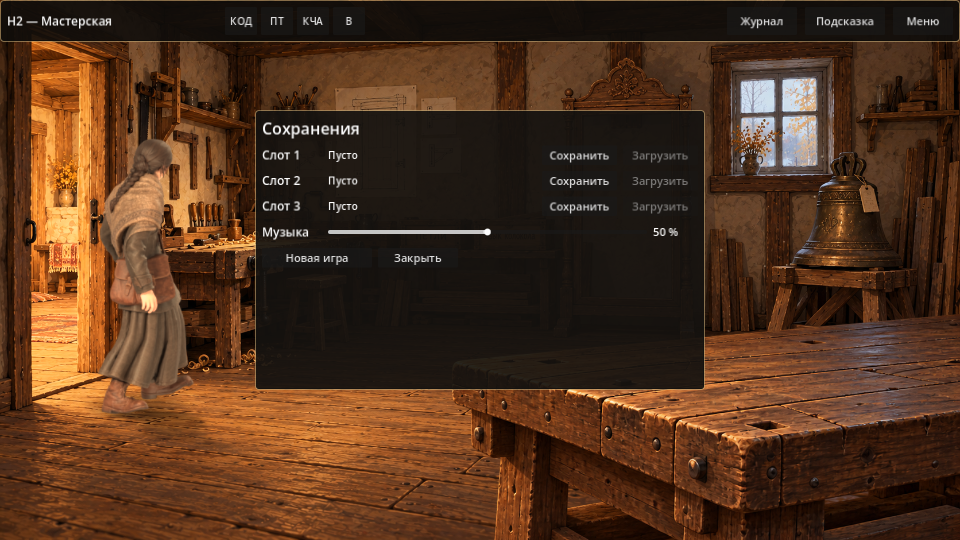
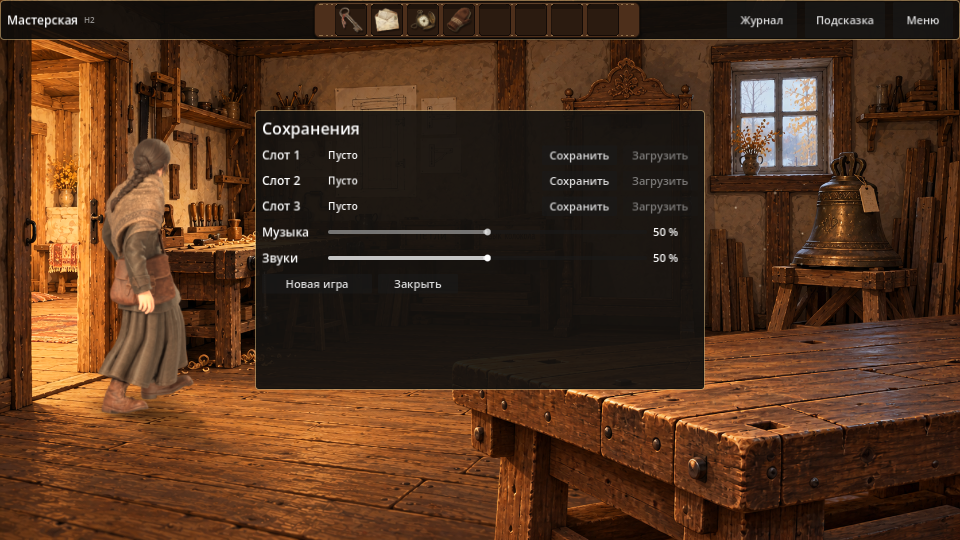
Звуки: шаги на кадрах постановки ноги, двери, дождь, огонь в печи, сумка, ползунок «Звуки» — SfxDirector + data/story/sfx.json
Исходники ElevenLabs (assets/sfx_src) → tools/prepare_sfx.sh → game/assets/sfx (скрипт в tools/: pipeline/ и assets/
по CLAUDE.md — Codex): двери целиком, шаги нарезаны по атакам (гравий 8, мягкие 7, громкость выровнена к медиане),
сумка (шорох + 3 жеста), петли дождя (−28 LUFS) и огня с бесшовной равномощной склейкой, OGG loop=true; levels.json.
Огонь: в «quiet old library» под гулом комнаты есть тихий треск (широкополосные щелчки ≈7,7/с) — гул срезан.
SfxDirector: шаг на contact_frames листа (те же кадры и точка, что у AmbientFootfall), покрытие по комнате и
многоугольникам; дверь — один раз на переход, не при загрузке/новой игре; огонь при stove_lit, громче ближе, панорама
от Агаты; дождь снаружи Z2/Z3/Z4/R1, в доме и на почте −9 dB через ФНЧ 900 Гц (шина SFX_Inside), в школе нет;
сумка — bag_sound_requested; «Звуки» → шина SFX, user://settings.cfg. Проверки: validate_sfx.py (громкость против
музыки, самопроверка), test_sfx.gd 7/7, run_tests.sh код 0, music_web.mjs в веб-сборке 32/32, 0 ошибок консоли.
Код, данные, ассеты и документы попали в промежуточные коммиты агентов [skip ci]; этот коммит запускает сборку.

Claude-Session: https://claude.ai/code/session_01Qvdjz1zmfr41cRSvLxvjeK

diff --git a/tools/prepare_sfx.py b/tools/prepare_sfx.py
@@ -227,9 +227,7 @@ def write_ogg(name: str, x: np.ndarray) -> Path:
 
 def main() -> int:
     DST.mkdir(parents=True, exist_ok=True)
-    for old in list(DST.glob("sfx_*.wav")) + list(DST.glob("amb_*.ogg")):
-        old.unlink()
-        Path(str(old) + ".import").unlink(missing_ok=True) if old.suffix == ".wav" else None
+    previous = set(DST.glob("sfx_*.wav")) | set(DST.glob("amb_*.ogg"))
     made: list[Path] = []
     for name in ("sfx_door_passage", "sfx_door_variant_01", "sfx_door_variant_02"):
         x = trim_silence(highpass(read(name + ".wav"), 40.0))
@@ -255,6 +253,11 @@ def main() -> int:
     made.append(write_ogg("amb_rain.ogg", rain))
     fire = to_loudness(seamless_loop(highpass(read("amb_stove_fire.wav"), 150.0), 1.5), -24.0)
     made.append(write_ogg("amb_stove_fire.ogg", fire))
+    # Takes that are no longer produced (fewer slices than last time) go, with their .import; the
+    # .import of a rewritten file is kept (Godot re-imports by checksum, the uid stays).
+    for old in previous - set(made):
+        old.unlink()
+        Path(str(old) + ".import").unlink(missing_ok=True)
     levels = {"_comment": "Измерения tools/prepare_sfx.py (ffmpeg ebur128): peak_db, lufs_i, lufs_m_max (громчайшее окно 400 мс), duration_s. Короткие файлы измерены с 0,5 с тишины по краям."}
     for p in made:
         levels[p.name] = measure(p)
